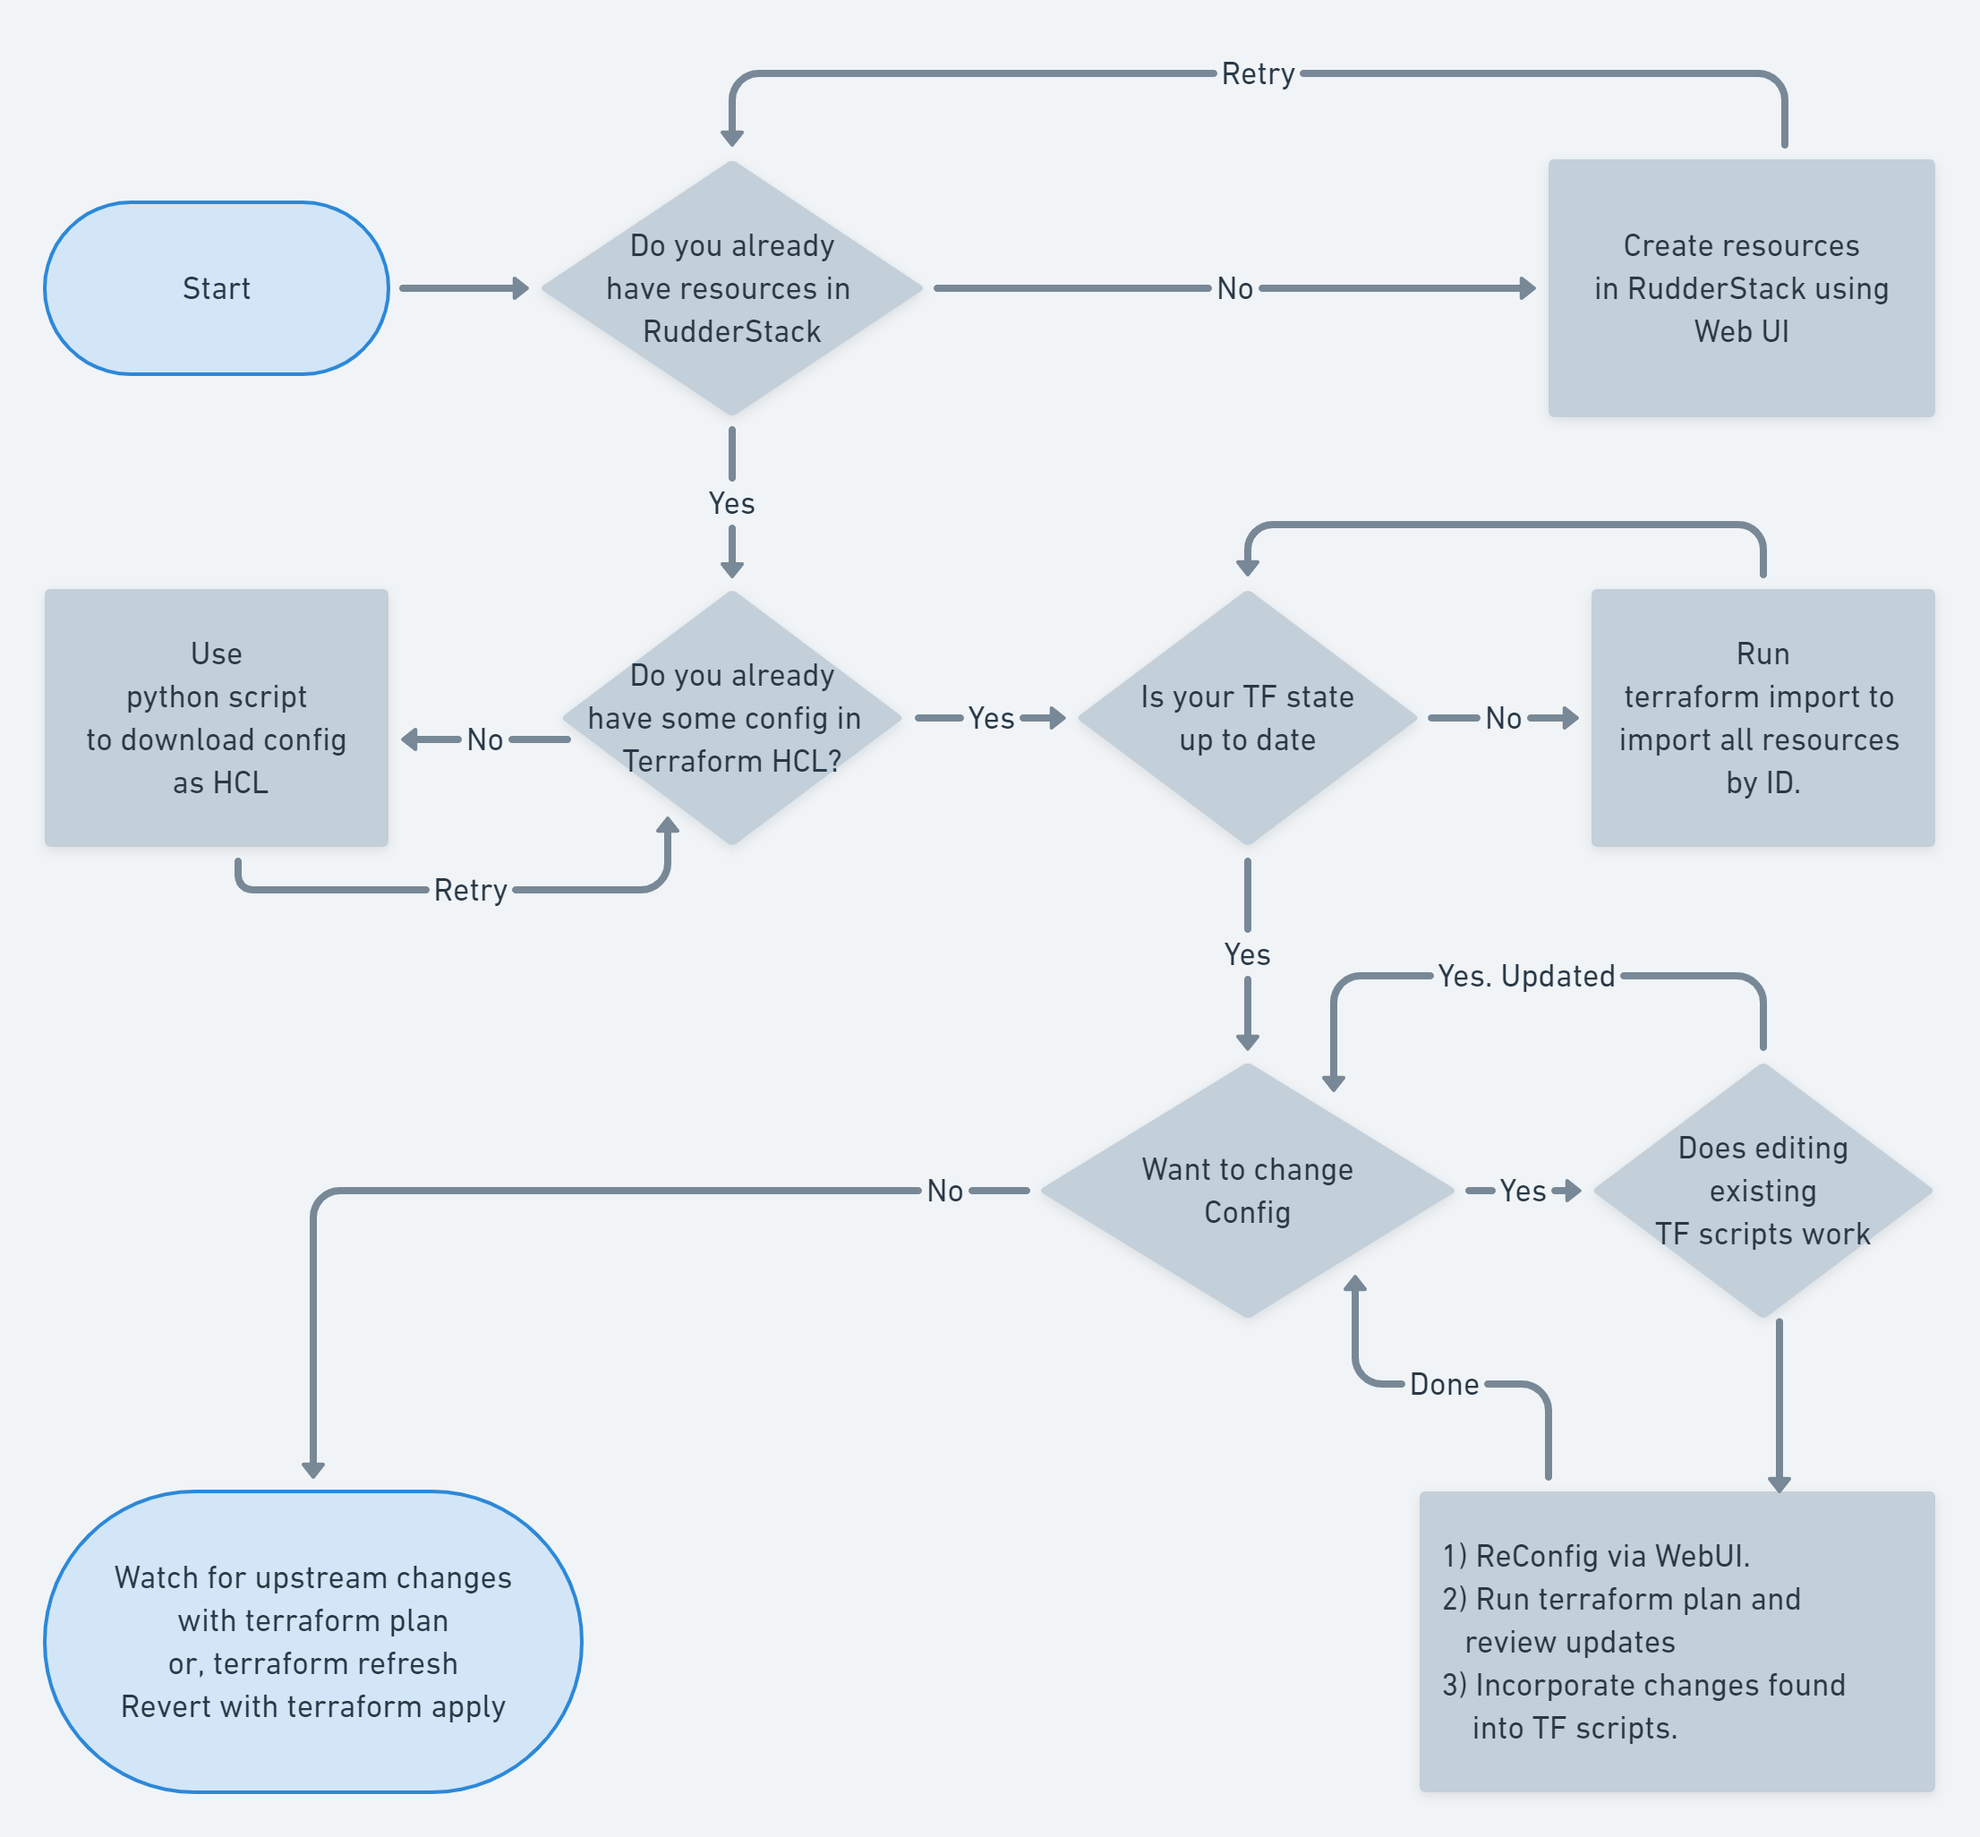
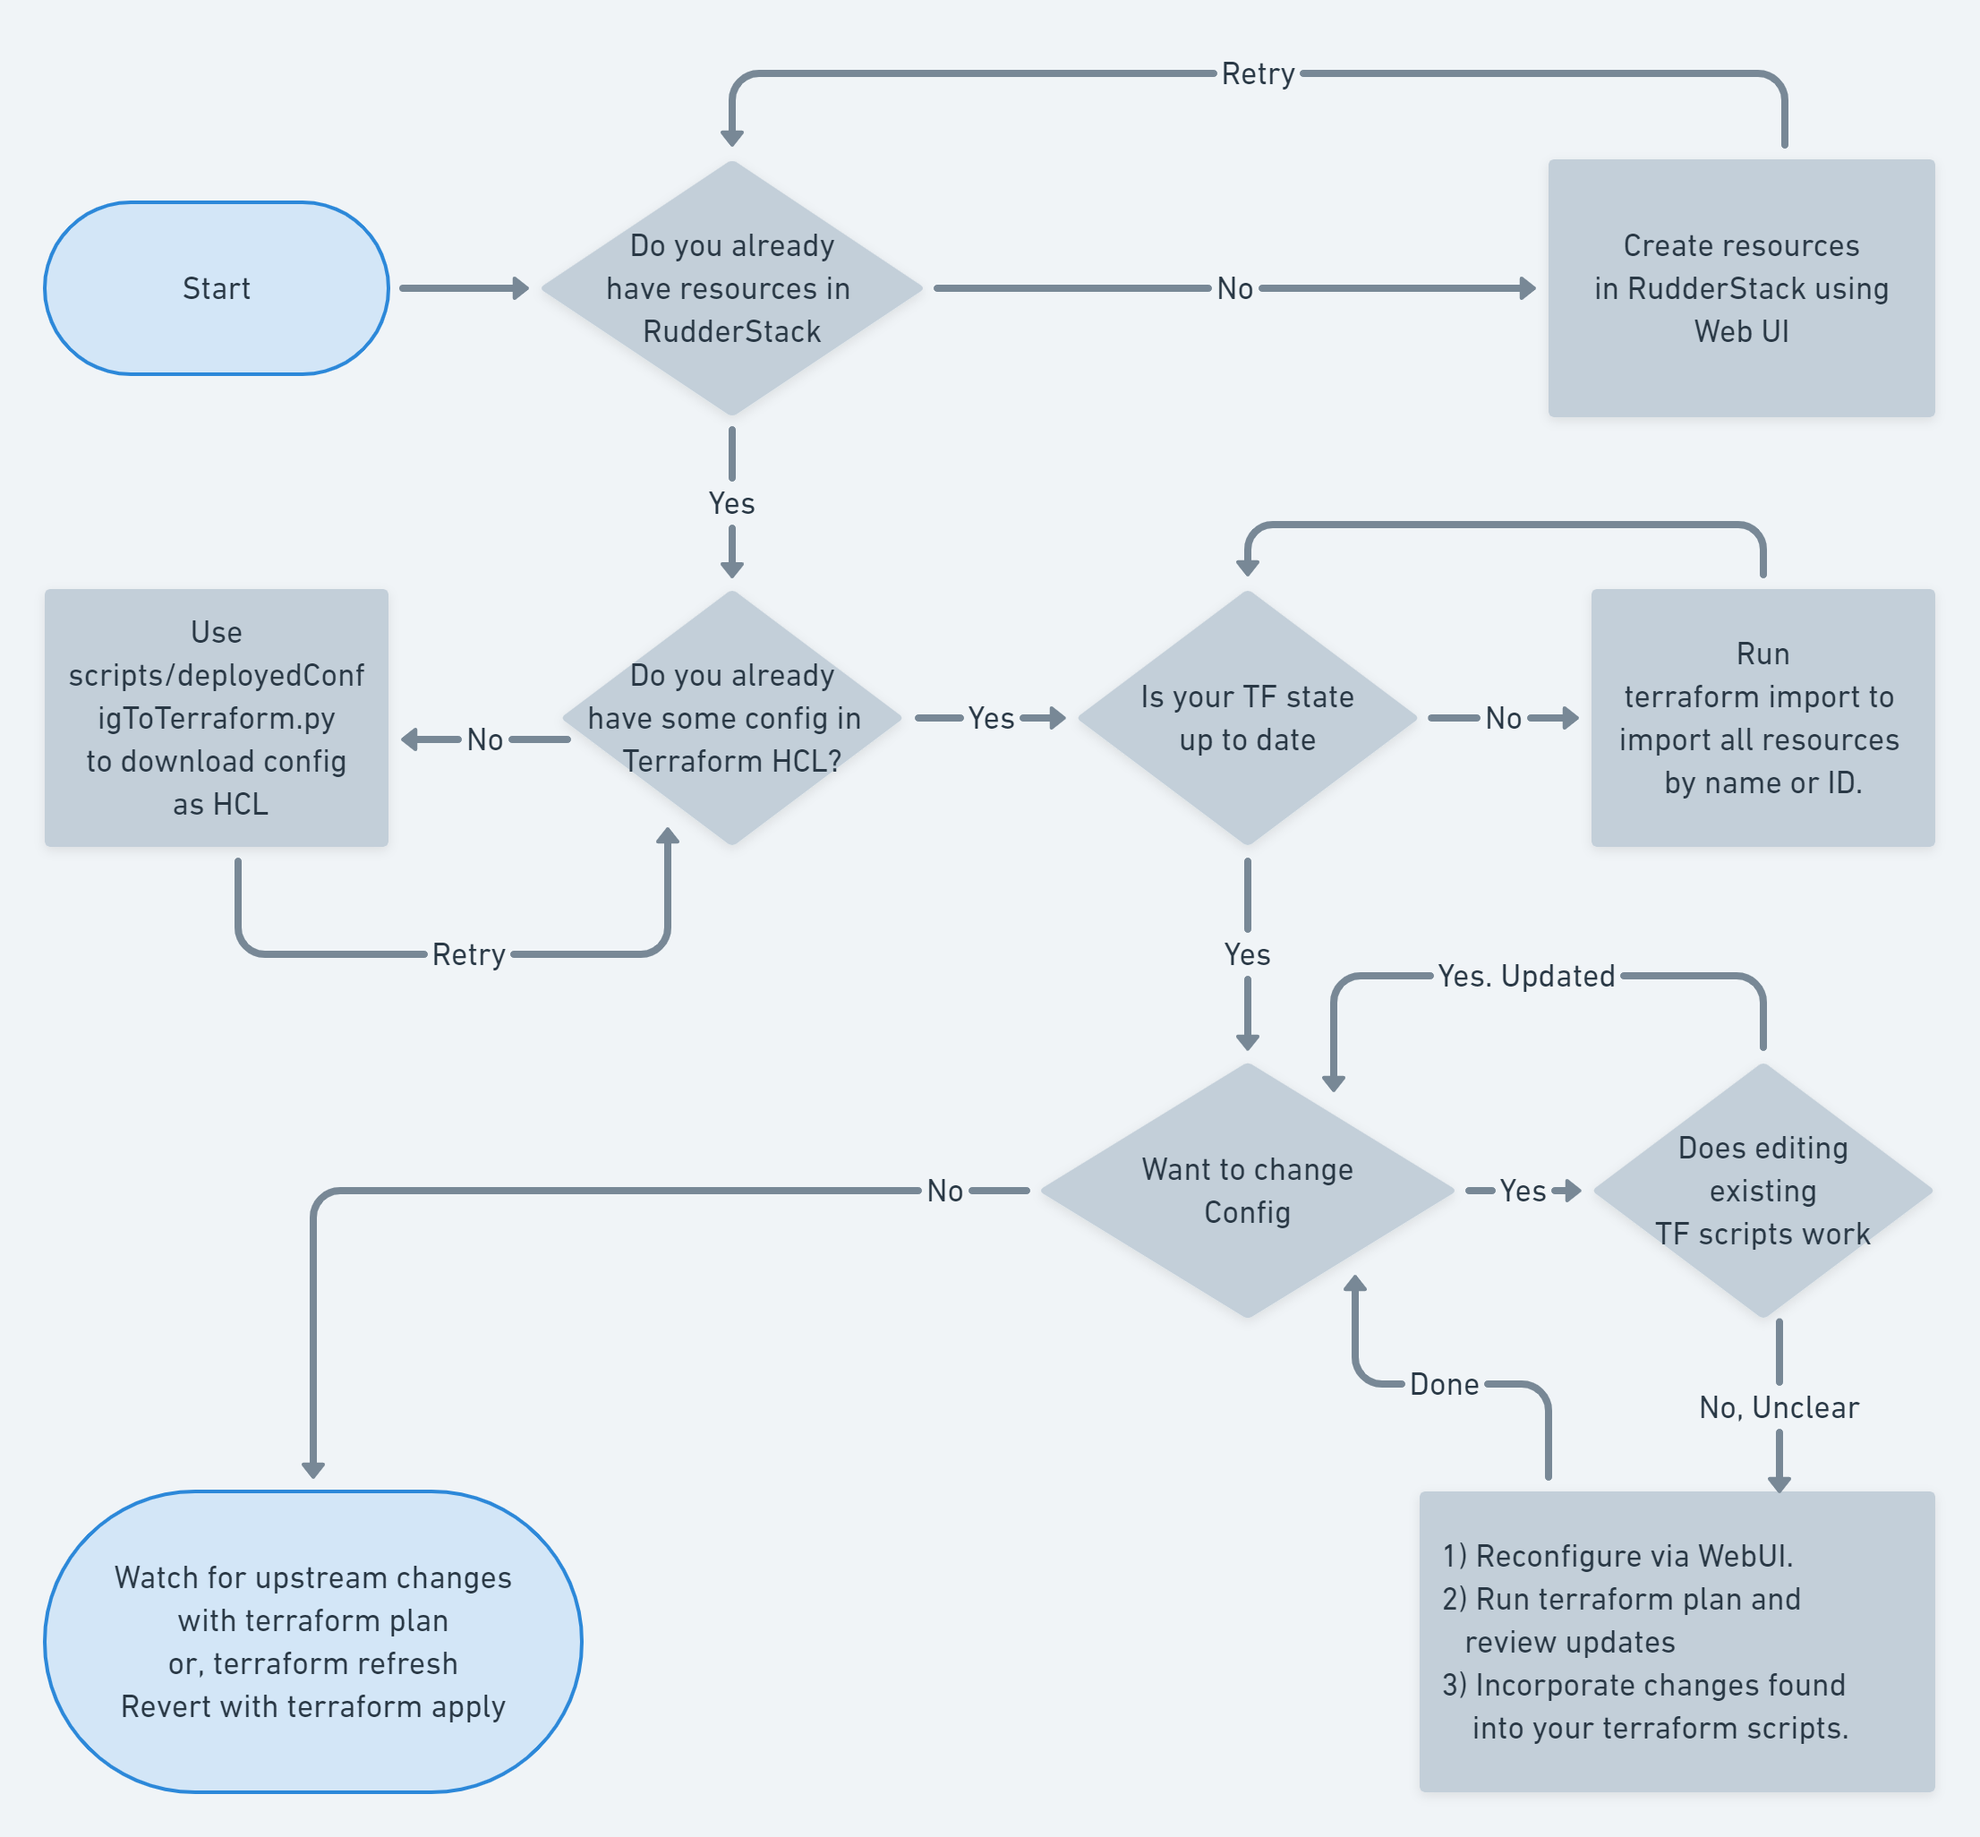
Updated flowchart and README description.

diff --git a/README.md b/README.md
@@ -13,12 +13,11 @@ This repo implements RudderStack terraform provider. Use it to access RudderStac
 Questions? Please join our [Slack channel](https://resources.rudderstack.com/join-rudderstack-slack) or read about us on [Product Hunt](https://www.producthunt.com/posts/rudderstack).
 
 # Getting Started
-Good place to start with Terraform is [here](https://www.terraform.io/intro/index.html). Next, checkout how to setup example configuration for RudderStack Terraform Provider [below](#example). Detailed documentation for RudderStack Terraform
-Provider is available [here](docs/index.md). 
+If you are not familiar with Terraform platform, then a good place to start is [here](https://www.terraform.io/intro/index.html). If you are interested in developing enhancements to RudderStack's Terraform provider, the best place to start is by creating a local build and test environemnt using an example configuration [here](#example). If you are a user intereseted in managing your production RudderStack resources via Terraform, you can get detailed documentation for our Terraform Provider [here](docs/index.md). 
 
-## Scripting Flowchart
-Follow the flowchart below to create your Terraform scripts.
-![Flowchart for building and managing RudderStack's Terraform config](docs/TerraformScriptingFlowchart.png)
+## Terraform Scripting Flowchart for RudderStack
+To create and maintain RudderStack's resources in Terraform, you can follow the flowchart below. 
+![Flowchart for building and managing RudderStack's Terraform config](docs/TerraformScriptingForRudderStackFlowchart.png)
 
 <a id="example"></a>
 # Setup dev and build env 
